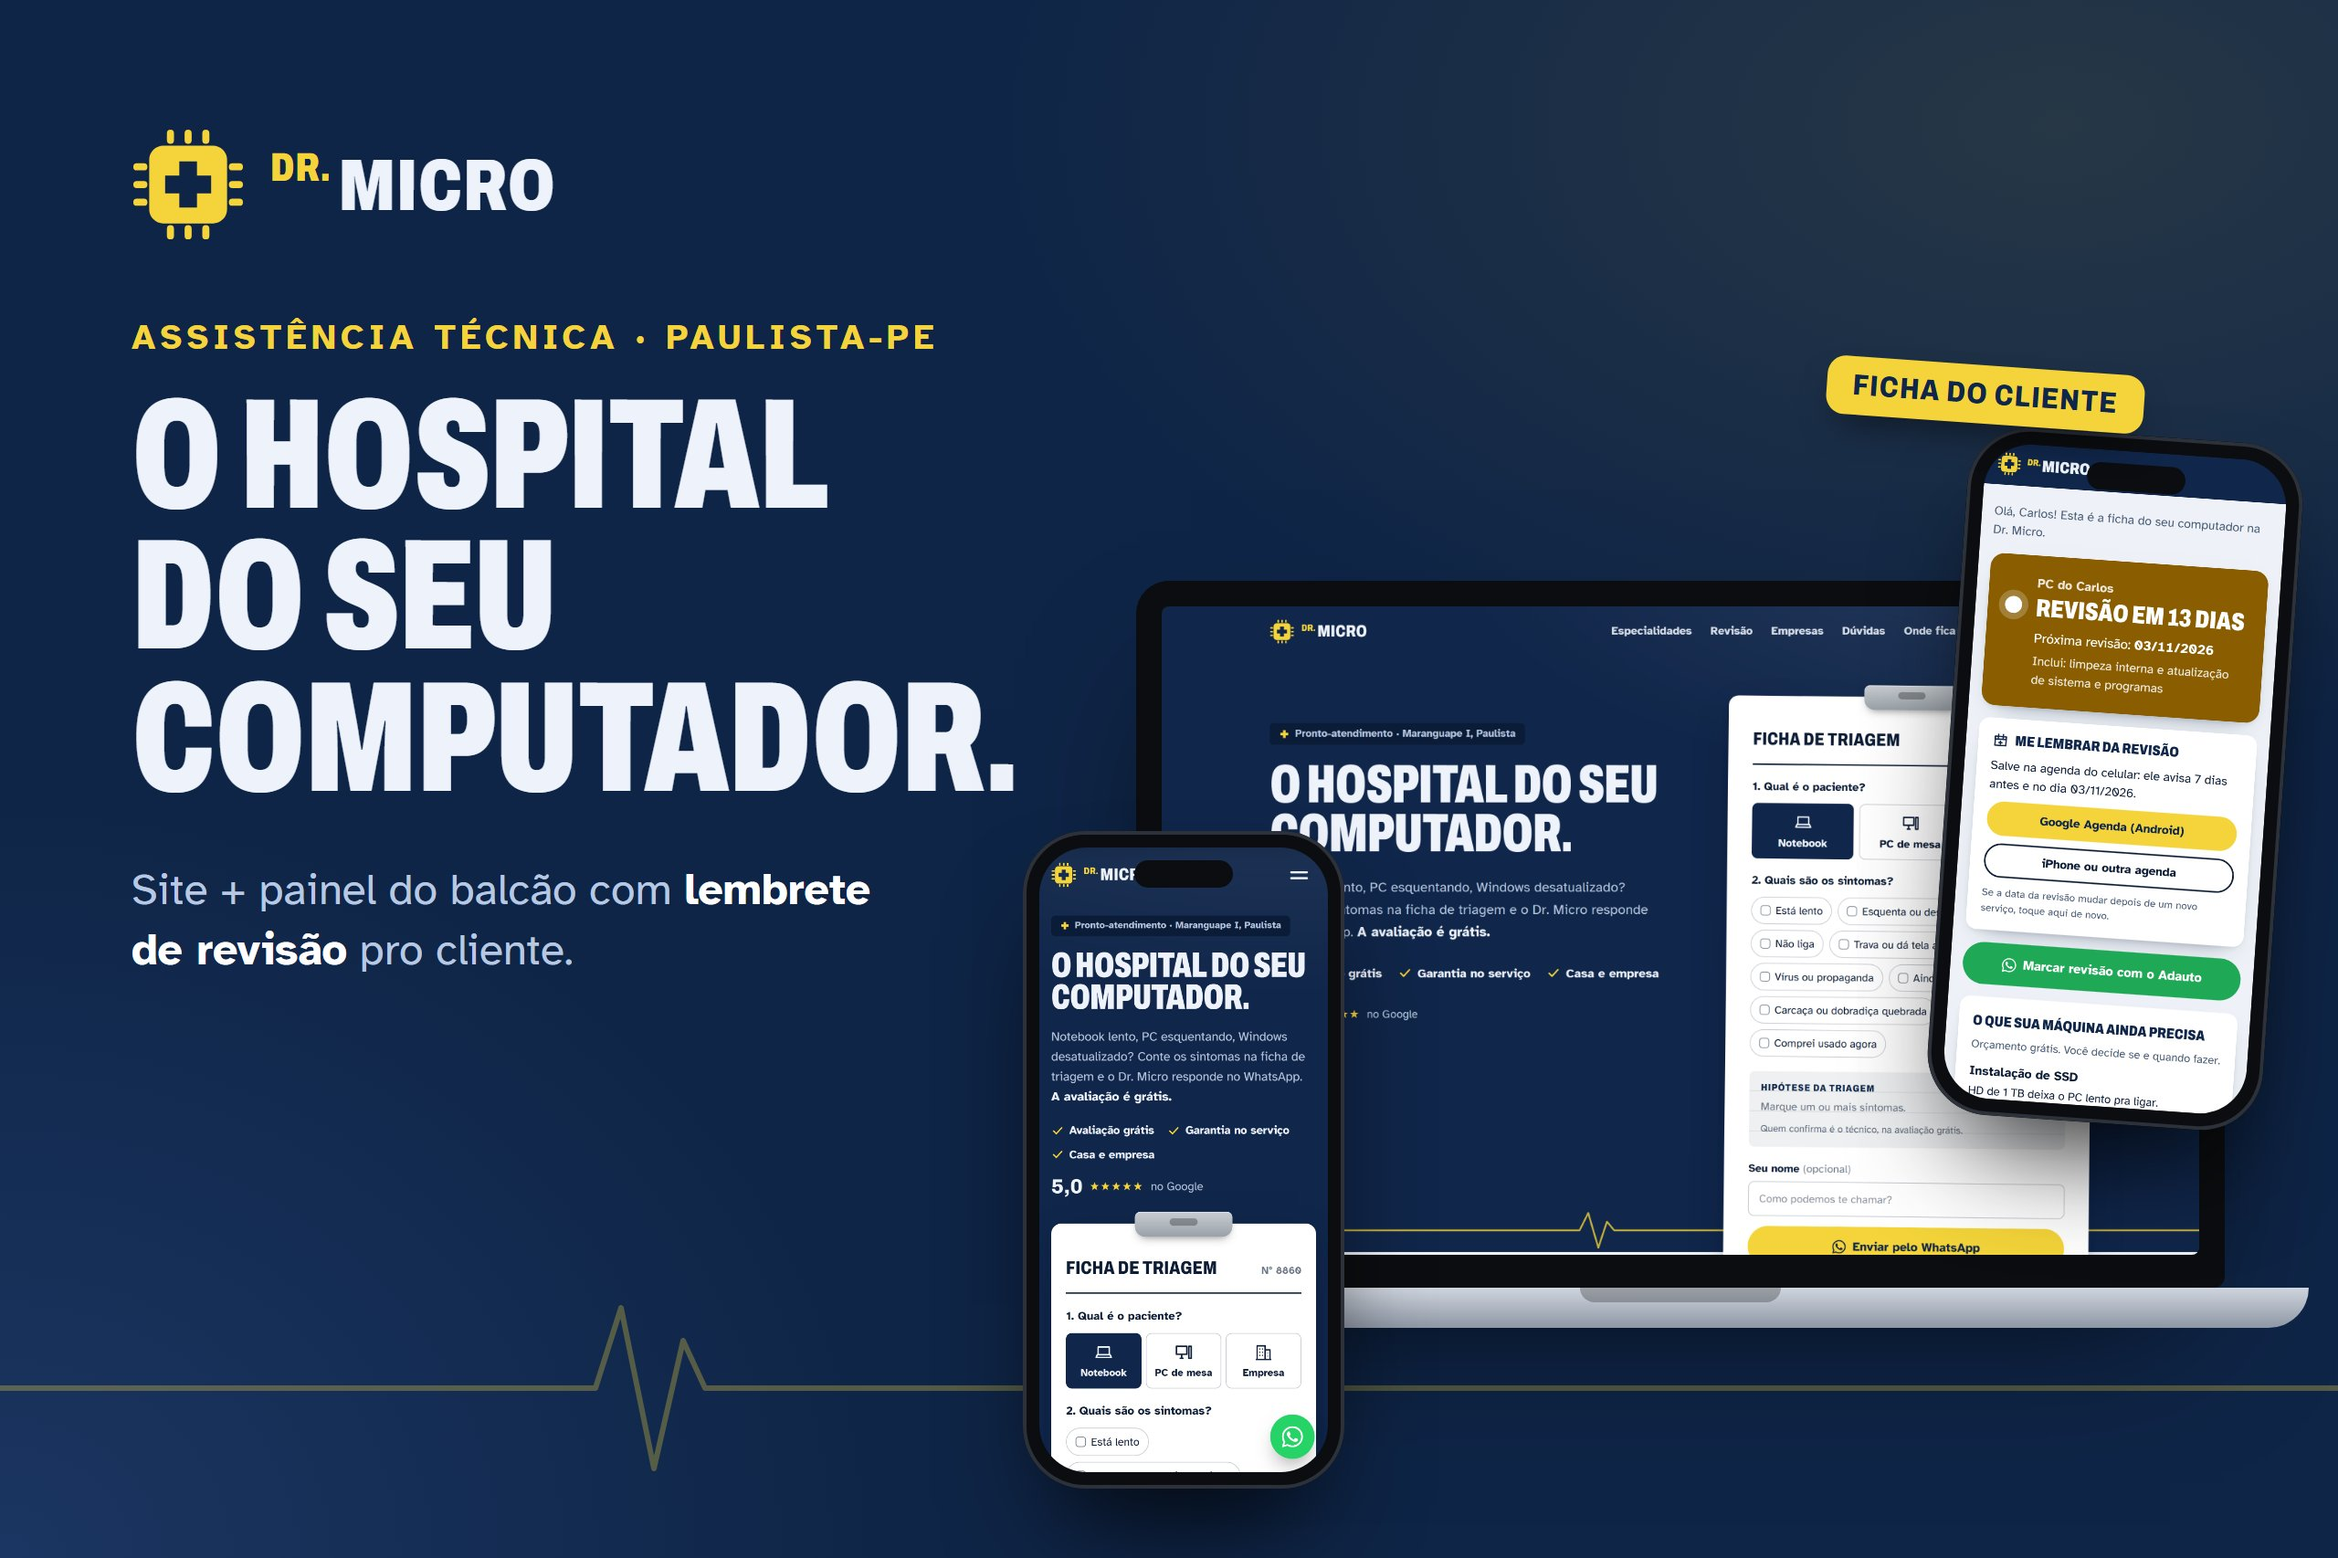
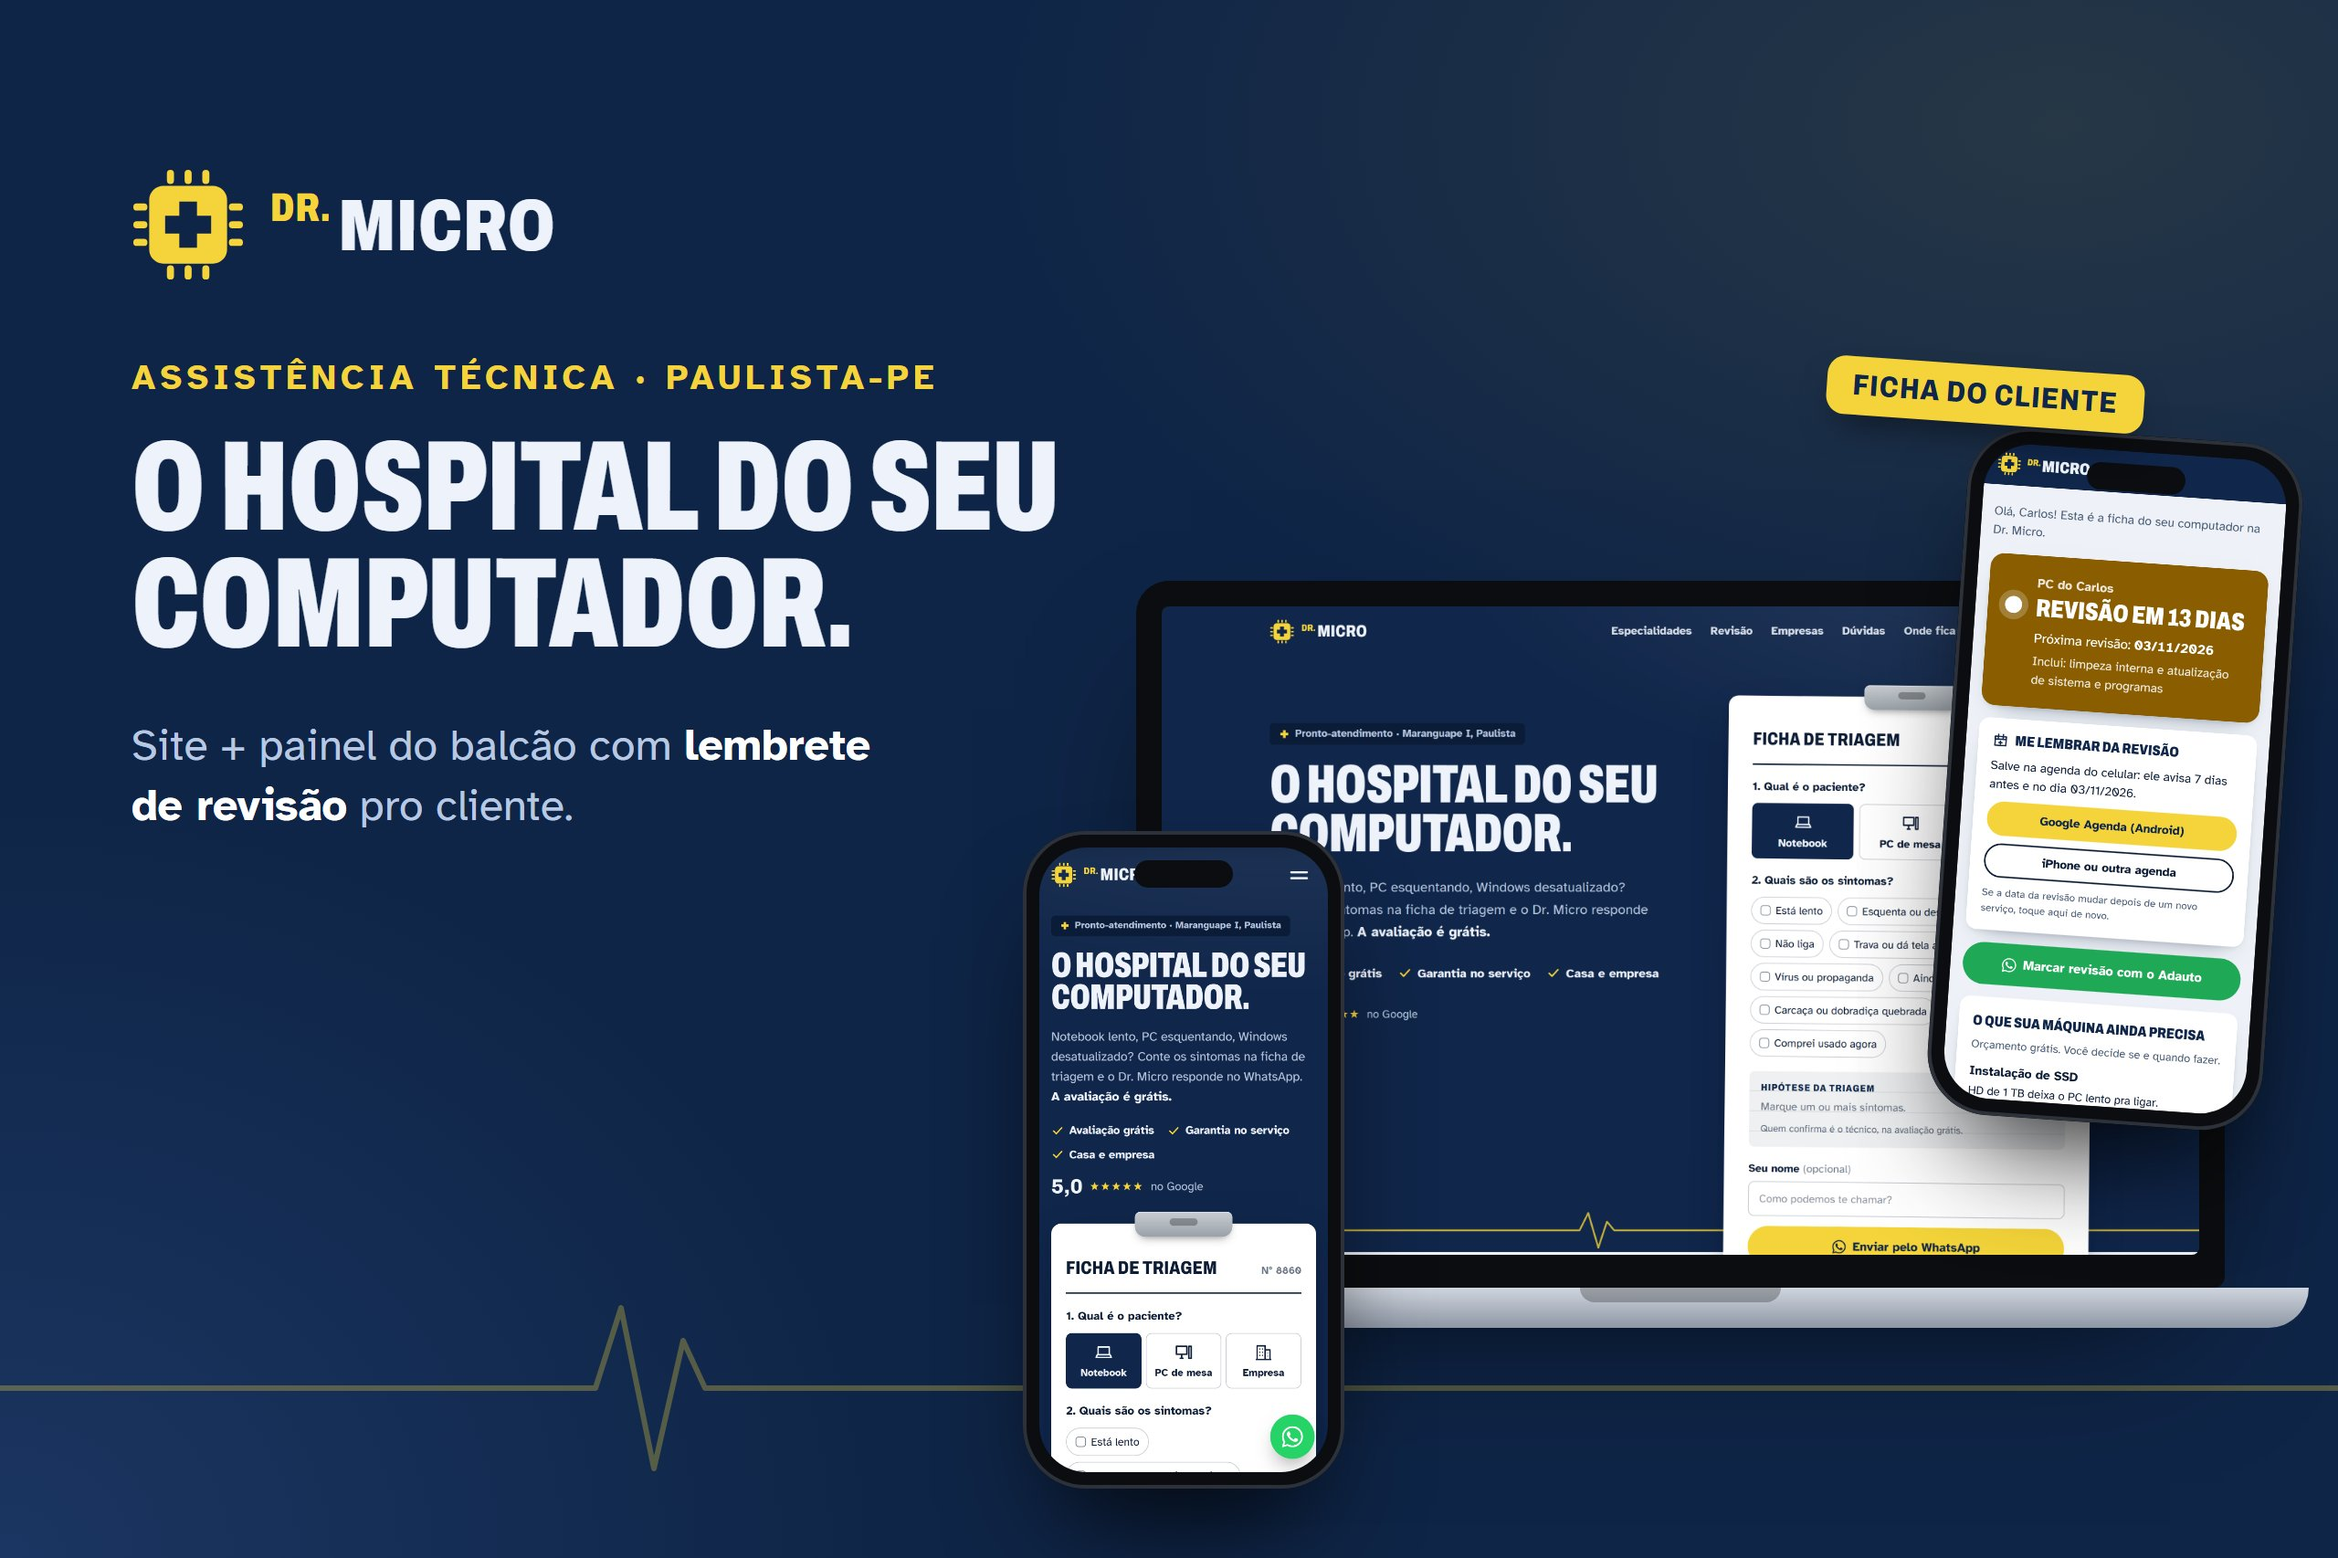
Portfólio: capa da Dr. Micro com o título em duas linhas, igual ao site

Changed region(s): [[0.0312, 0.0621, 0.4688, 0.5281], [0.0625, 0.5592, 0.375, 0.6213]]

diff --git a/index.html b/index.html
@@ -580,7 +580,7 @@
         </div>
         <div class="project-card reveal" data-categoria="servicos">
           <div class="project-image">
-            <img src="assets/images/dr-micro-1280.jpg?v=3" srcset="assets/images/dr-micro-720.jpg?v=3 720w, assets/images/dr-micro-1280.jpg?v=3 1280w, assets/images/dr-micro-2560.jpg?v=3 2560w" sizes="(max-width: 640px) 90vw, 360px" alt="Site Dr. Micro no computador e no celular" loading="lazy" onerror="this.onerror=null;this.src='assets/images/placeholder.svg';">
+            <img src="assets/images/dr-micro-1280.jpg?v=4" srcset="assets/images/dr-micro-720.jpg?v=4 720w, assets/images/dr-micro-1280.jpg?v=4 1280w, assets/images/dr-micro-2560.jpg?v=4 2560w" sizes="(max-width: 640px) 90vw, 360px" alt="Site Dr. Micro no computador e no celular" loading="lazy" onerror="this.onerror=null;this.src='assets/images/placeholder.svg';">
             <div class="project-image-overlay"></div>
             <span class="project-badge">Em desenvolvimento</span>
           </div>
